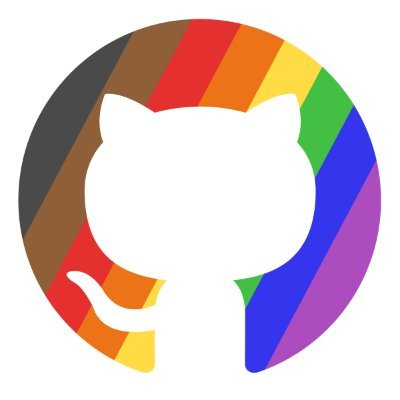
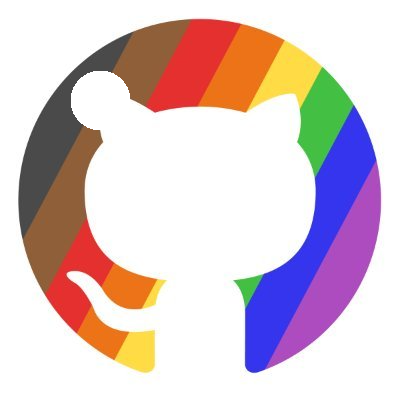
x

Changed region(s): [[0.18, 0.18, 0.33, 0.33]]

diff --git a/IDGVM/Loader.ts b/IDGVM/Loader.ts
@@ -57,7 +57,7 @@ export default class IDGLoader {
         for(;i < ((imageWidth * imageHeight) * 4) + 13; i += 4){
             image.push(x.getUint32(i));
         }
-        console.log("LOADER IMAGE", image)
+        console.log("LOADER IMAGE LENGTH", image.length)
         const memorySection = decompressed.slice(i,  i + memorySizeRequest);
         
         return {

diff --git a/mod.ts b/mod.ts
@@ -33,7 +33,7 @@ const builder = new IDGBuilder({
 //     builder.incrementRegister("acc");
 // loop1.markEnd()
 
-builder.drawCircle(5, 10,10, [255,255,255]);
+builder.drawCircle(30, 100,100, [255,255,255]);
 builder.RENDER();
 
 
